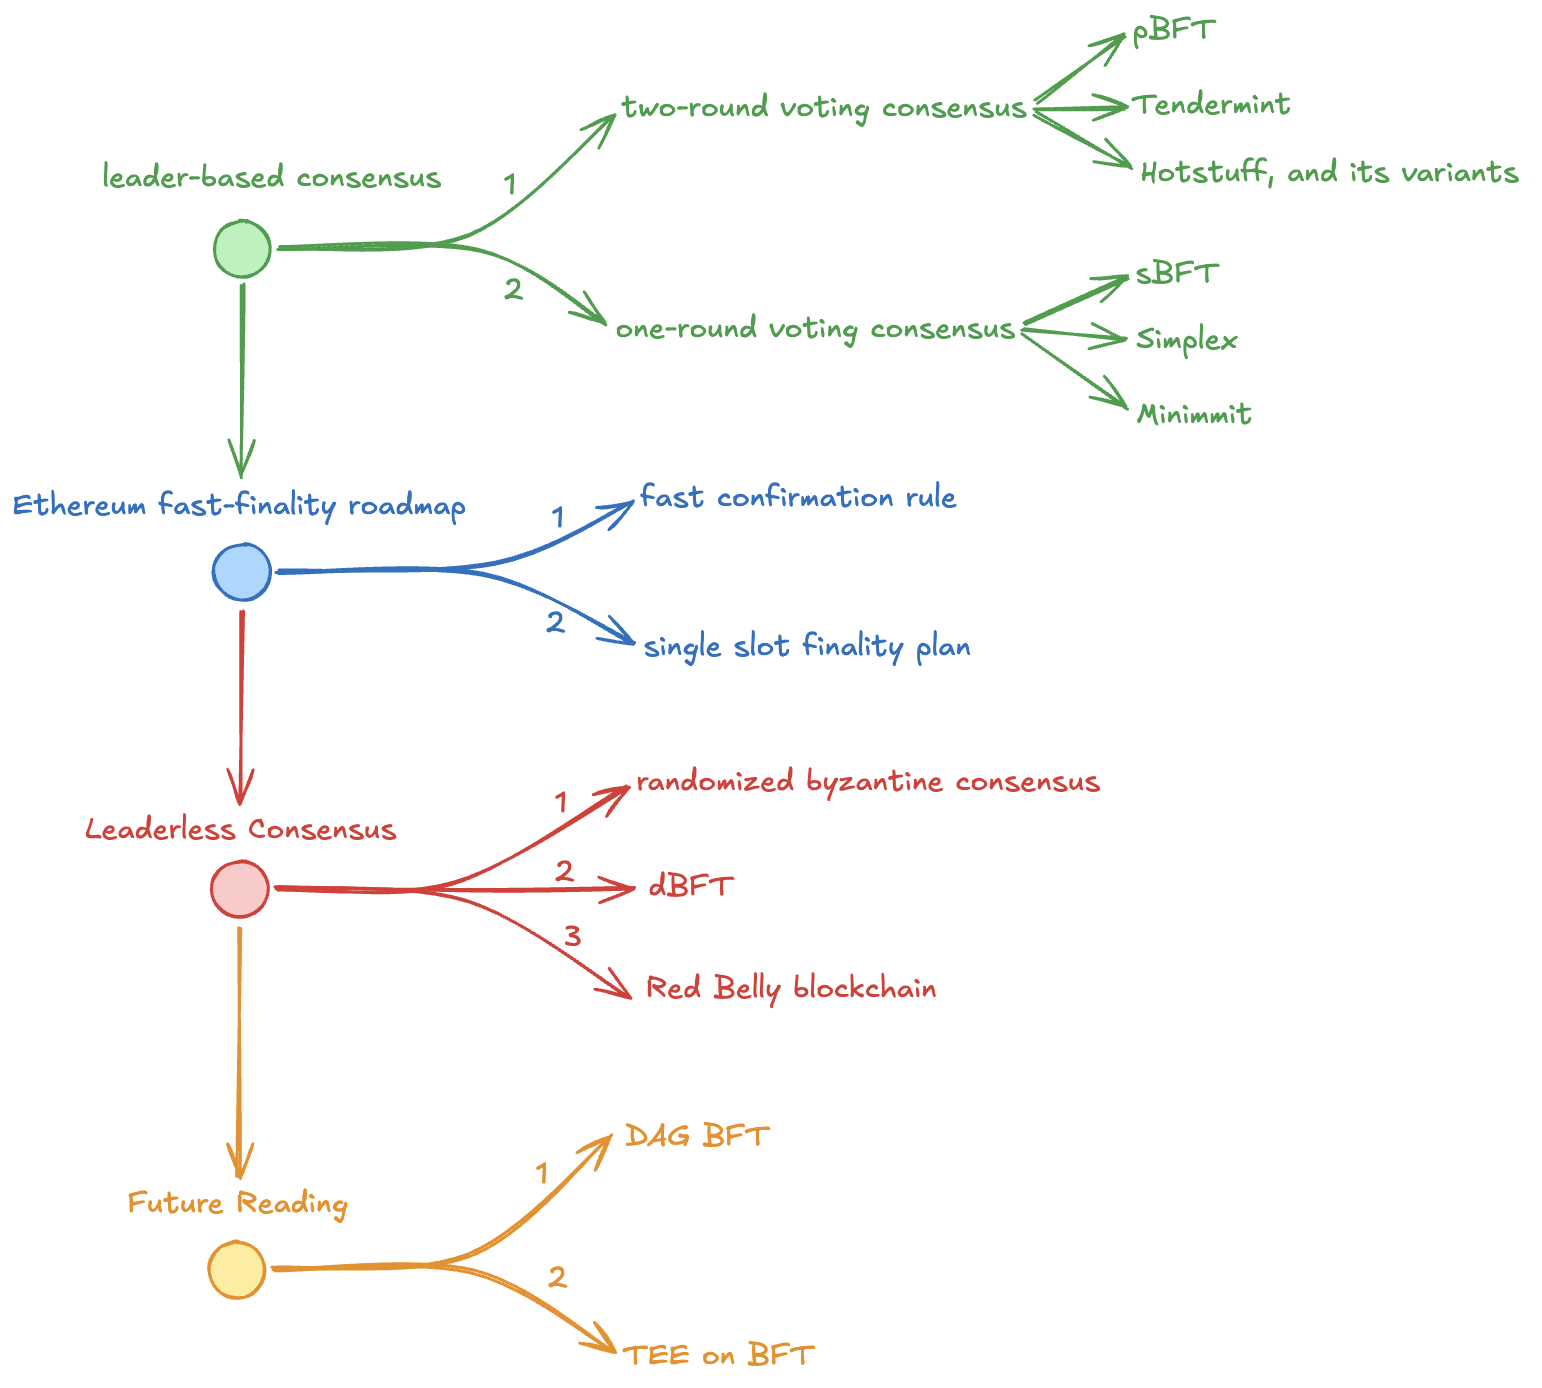
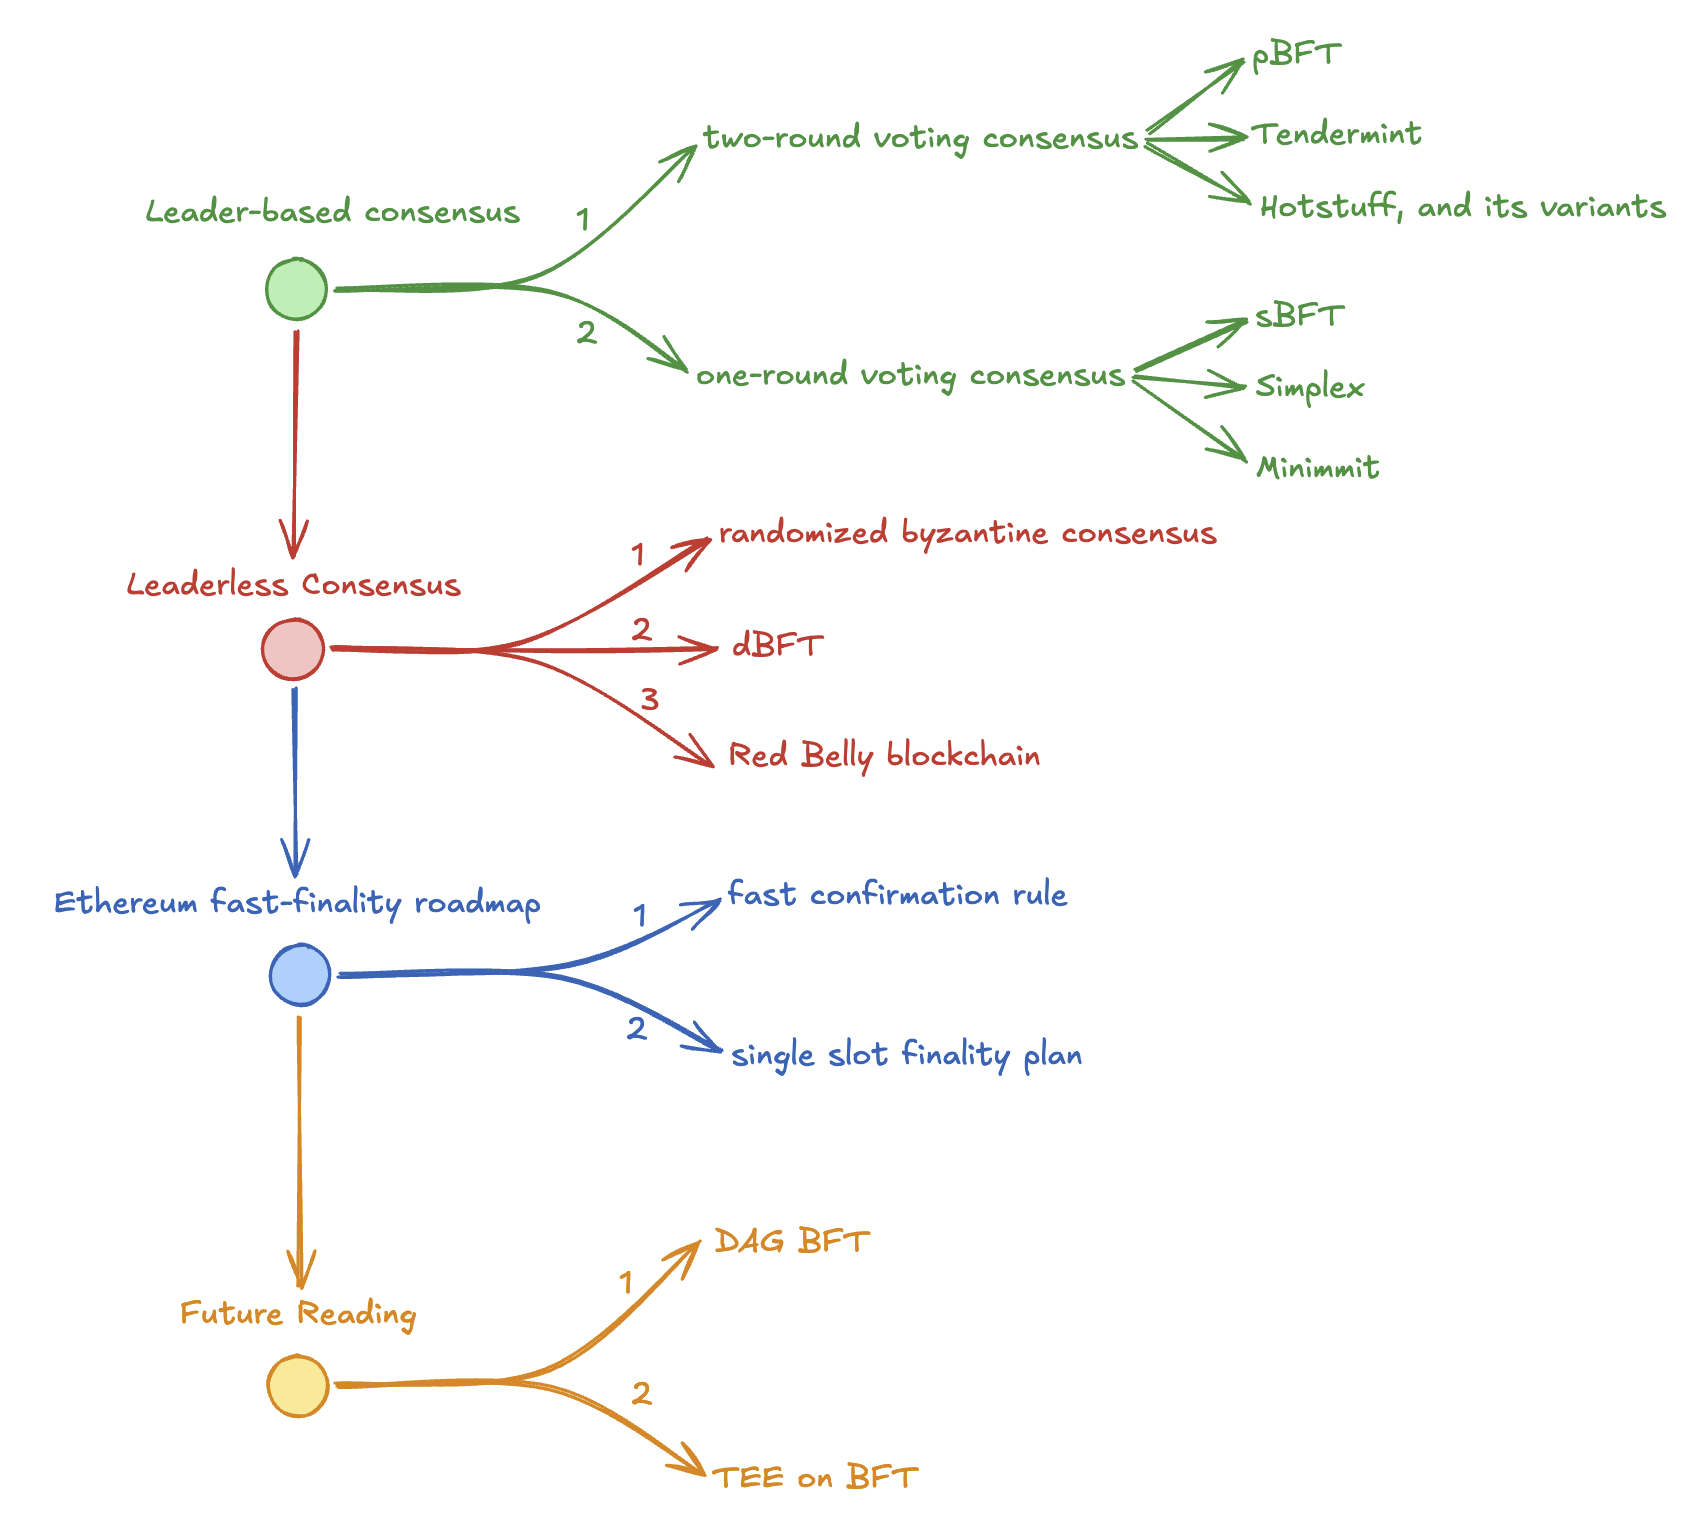
feat: Update consensus reading mindmap.

Changed region(s): [[0.0, 0.1239, 0.716, 0.9914], [0.3735, 0.0, 0.9961, 0.1549], [0.3735, 0.1859, 0.8093, 0.3098]]

diff --git a/content/research/consensus-reading-log/index.md b/content/research/consensus-reading-log/index.md
@@ -1,6 +1,6 @@
 ---
 title: "Consensus Reading Log: From Classical BFT to Ethereum Finality"
-subtitle: "A comparison-driven reading path from leader-based BFT to Ethereum finality, leaderless coordination, and future directions"
+subtitle: "A comparison-driven reading path from leader-based BFT to leaderless coordination, Ethereum finality, and future directions"
 order: 2
 ---
 
@@ -9,7 +9,7 @@ I began studying consensus algorithms on April 5, 2026, starting from broad back
 After finishing that initial survey, I realized I wanted to go much deeper. By May 6, 2026, I had gone through twelve papers, nine of them in close, line-by-line reading and started building my own internal map of the area. This section captures that early understanding: leader-based BFT protocols, Ethereum’s roadmap toward faster finality, and leaderless BFT designs, including the ideas behind Red Belly.
 
 I started with **leader-based consensus** because it gave me the clearest baseline for comparing view change, quorum structure, and fast-path finality.
-From there, the path moved into **Ethereum finality**, where proposal and finality become more clearly separated and the assumptions shift from a closed committee to a public validator set. After that, I wanted a contrasting branch in **leaderless consensus**, where the protocol no longer depends on a single strong proposer path.
+From there, the path moved into **leaderless consensus**, where the protocol no longer depends on a single strong proposer path. After that, I moved to **Ethereum finality**, where proposal and finality become more clearly separated and the assumptions shift from a closed committee to a public validator set.
 I end with **future reading directions** that extend the same questions into newer design spaces.
 
 The figure below shows how this reading path branched over time: